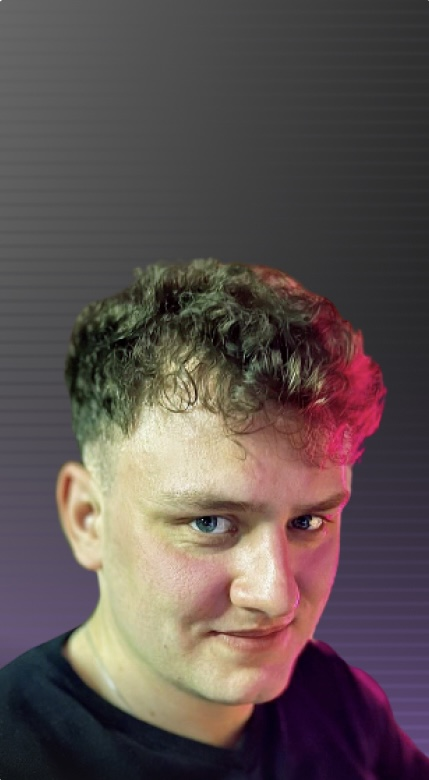
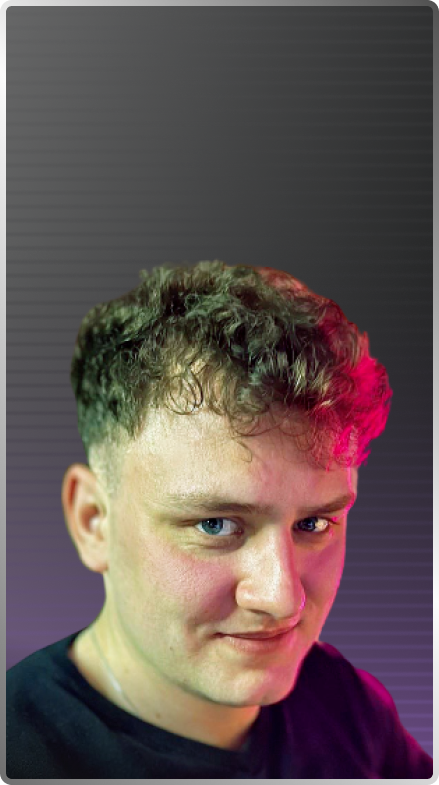
replaced product images in the catalog and team photos

diff --git a/components/panels/catalog-panel/category-item-panel/product-item/product-item.module.css b/components/panels/catalog-panel/category-item-panel/product-item/product-item.module.css
@@ -3,15 +3,17 @@
     height: 148px;
     padding: 18px;
     transition: transform 0.3s ease;
-    background: linear-gradient(0deg, #ADADAD, #ADADAD),
-    linear-gradient(112.97deg, #FFFFFF -2.46%, rgba(255, 255, 255, 0.599366) 16.31%, rgba(153, 153, 153, 0.4) 33.73%, rgba(255, 255, 255, 0.53) 51.13%, rgba(86, 86, 86, 0.39) 77.92%, rgba(255, 255, 255, 0.71) 92.52%);
     color: rgba(12, 0, 0, 1);
-    border-radius: 6px;
+    background-repeat: no-repeat;
+    -webkit-background-size: cover;
+    -moz-background-size: cover;
+    -o-background-size: cover;
+    background-size: cover;
+    background-image: url("../../../../../public/categoryBackground.png");
 }
 
 .productItem:hover {
     transform: scale(1.1);
-    border: 1px solid rgba(255, 255, 255, 1);
 }
 
 .container {

diff --git a/components/panels/catalog-panel/category-item-panel/product-item/product-item.tsx b/components/panels/catalog-panel/category-item-panel/product-item/product-item.tsx
@@ -2,6 +2,7 @@ import React, {FunctionComponent} from "react";
 import {Product} from "../../../../types";
 import styles from "./product-item.module.css";
 import {Box, Button, Typography} from "@mui/material";
+import ArrowOutwardIcon from '@mui/icons-material/ArrowOutward';
 
 interface Props {
     product: Product;
@@ -40,6 +41,7 @@ export const ProductItem: FunctionComponent<Props> = ({product, onSelect}) => {
                                 Token
                             </Typography>
                         </Box>
+                        <ArrowOutwardIcon sx={{position: 'absolute', bottom: '12px', right: '12px'}}/>
                     </Box>
                 </Box>
             </Box>

diff --git a/components/layouts/footer/footer.tsx b/components/layouts/footer/footer.tsx
@@ -16,7 +16,7 @@ export const Footer: FunctionComponent = () => {
                     Developed during
                 </Typography>
                 <Typography fontFamily="Inter"  className="bold16">
-                    &nbsp;Hackmos Istanbul 2023
+                    &nbsp;Hackathon 2023
                 </Typography>
             </Box>
             <Box sx={{
